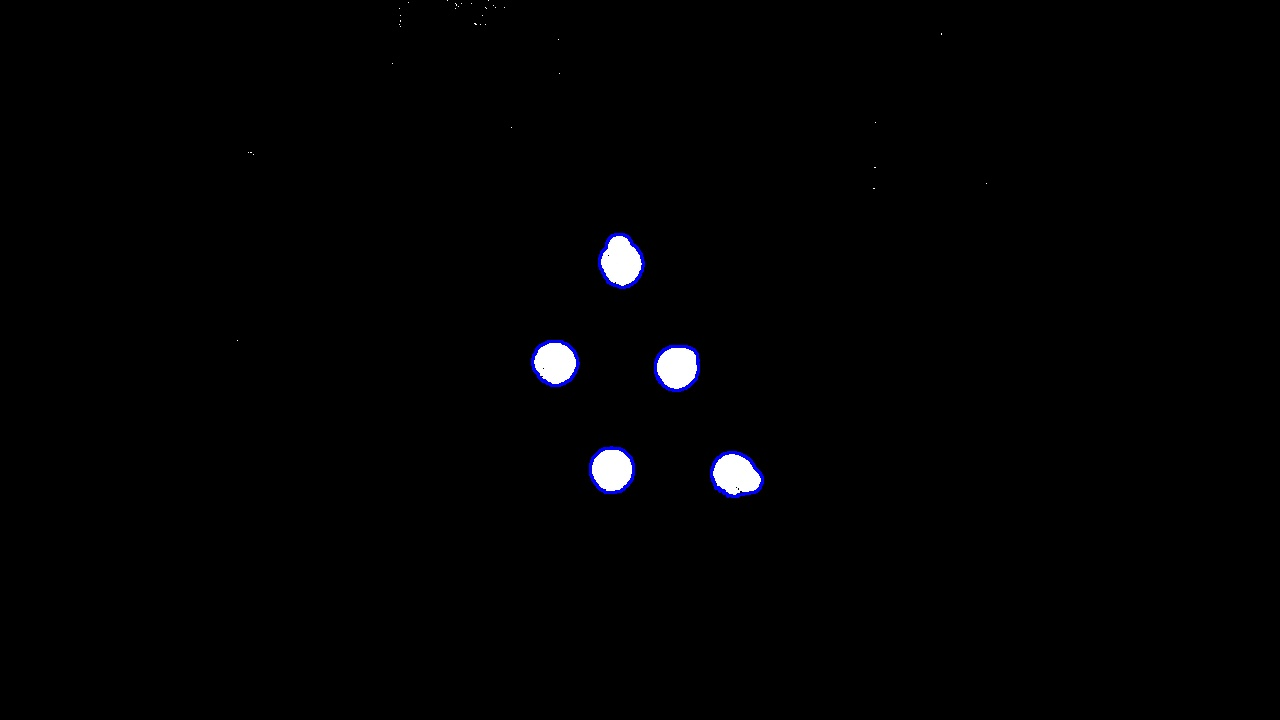
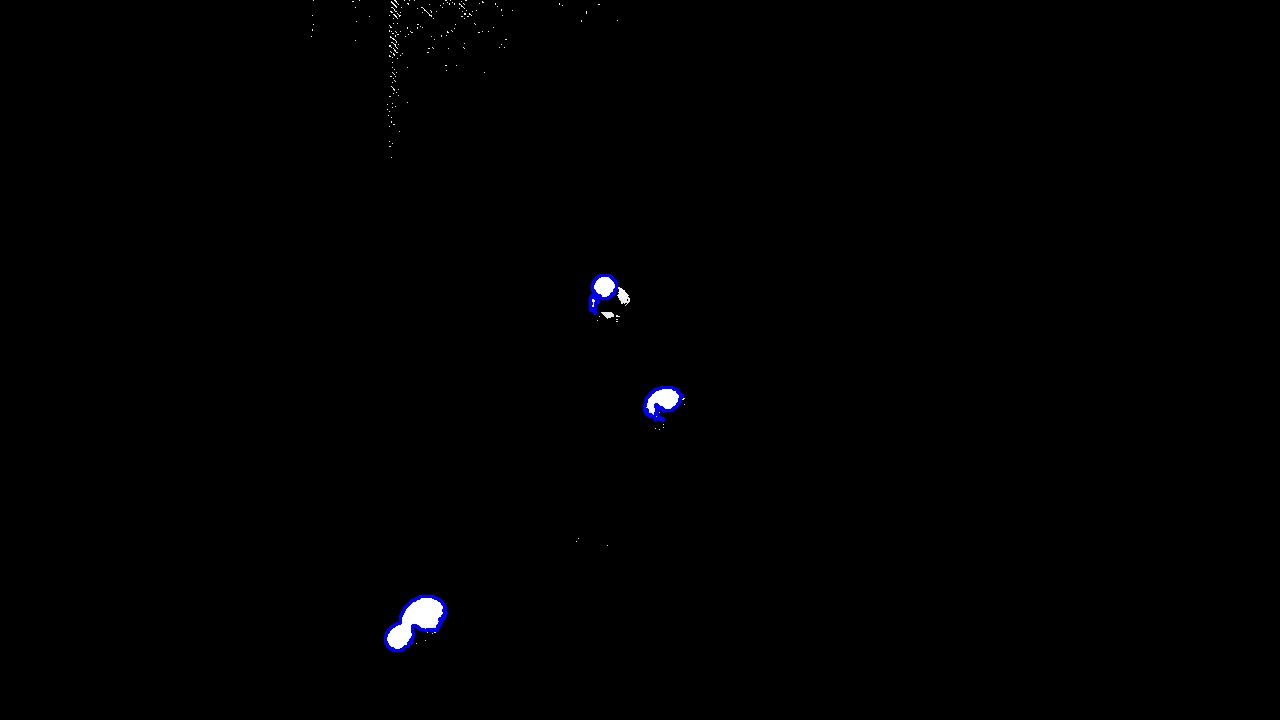
whatever

diff --git a/score.py b/score.py
@@ -297,7 +297,7 @@ class Score:
             return
         
         hsv = cv2.cvtColor(frame, cv2.COLOR_BGR2HSV)
-        lowerWhite = np.array([0,0,250])
+        lowerWhite = np.array([0,0,230])
         upperWhite = np.array([180,5,255])
 
         mask = cv2.inRange(hsv, lowerWhite, upperWhite)
